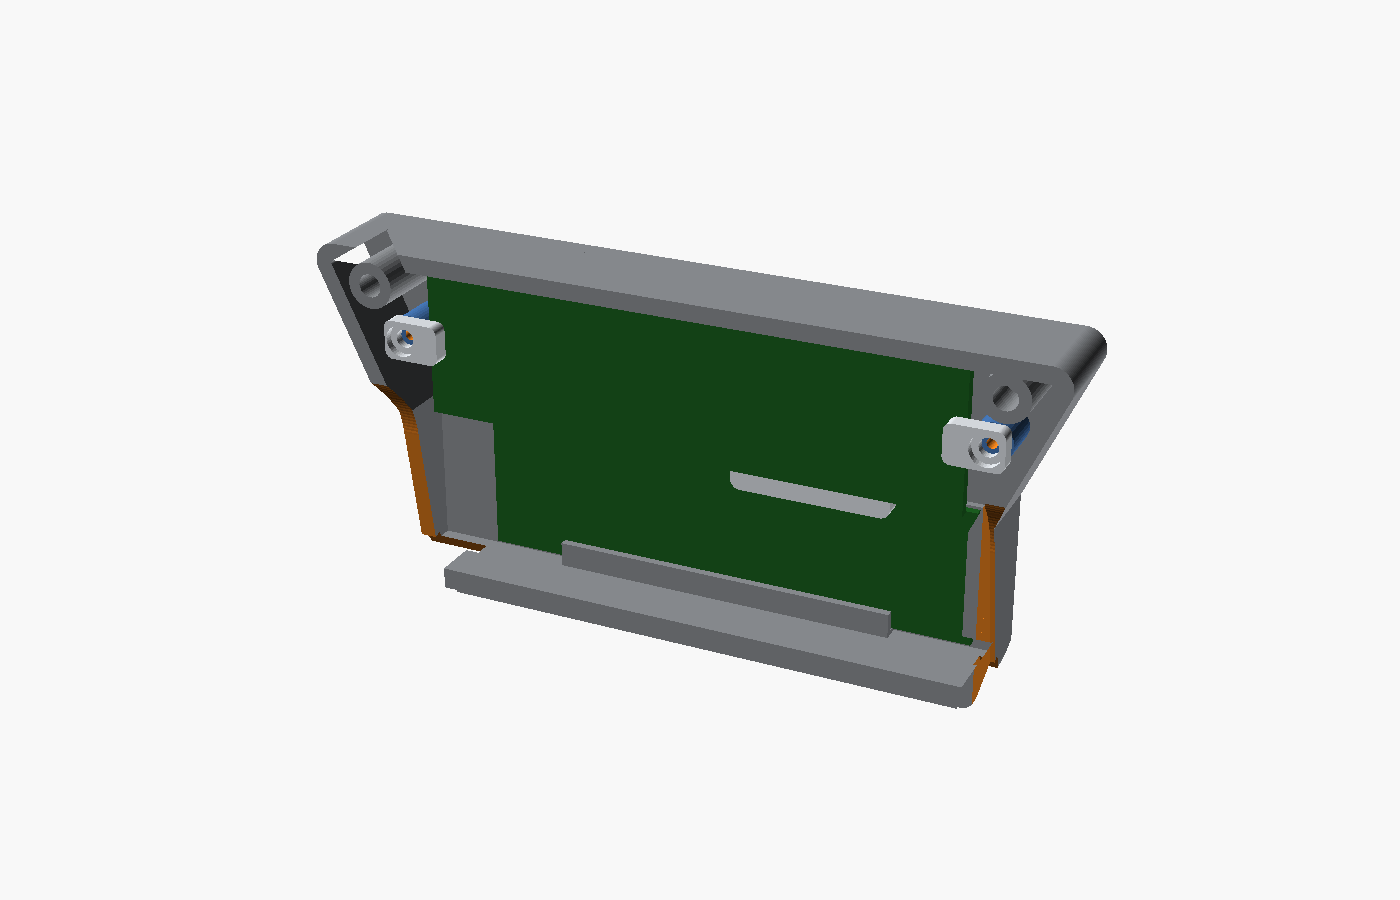
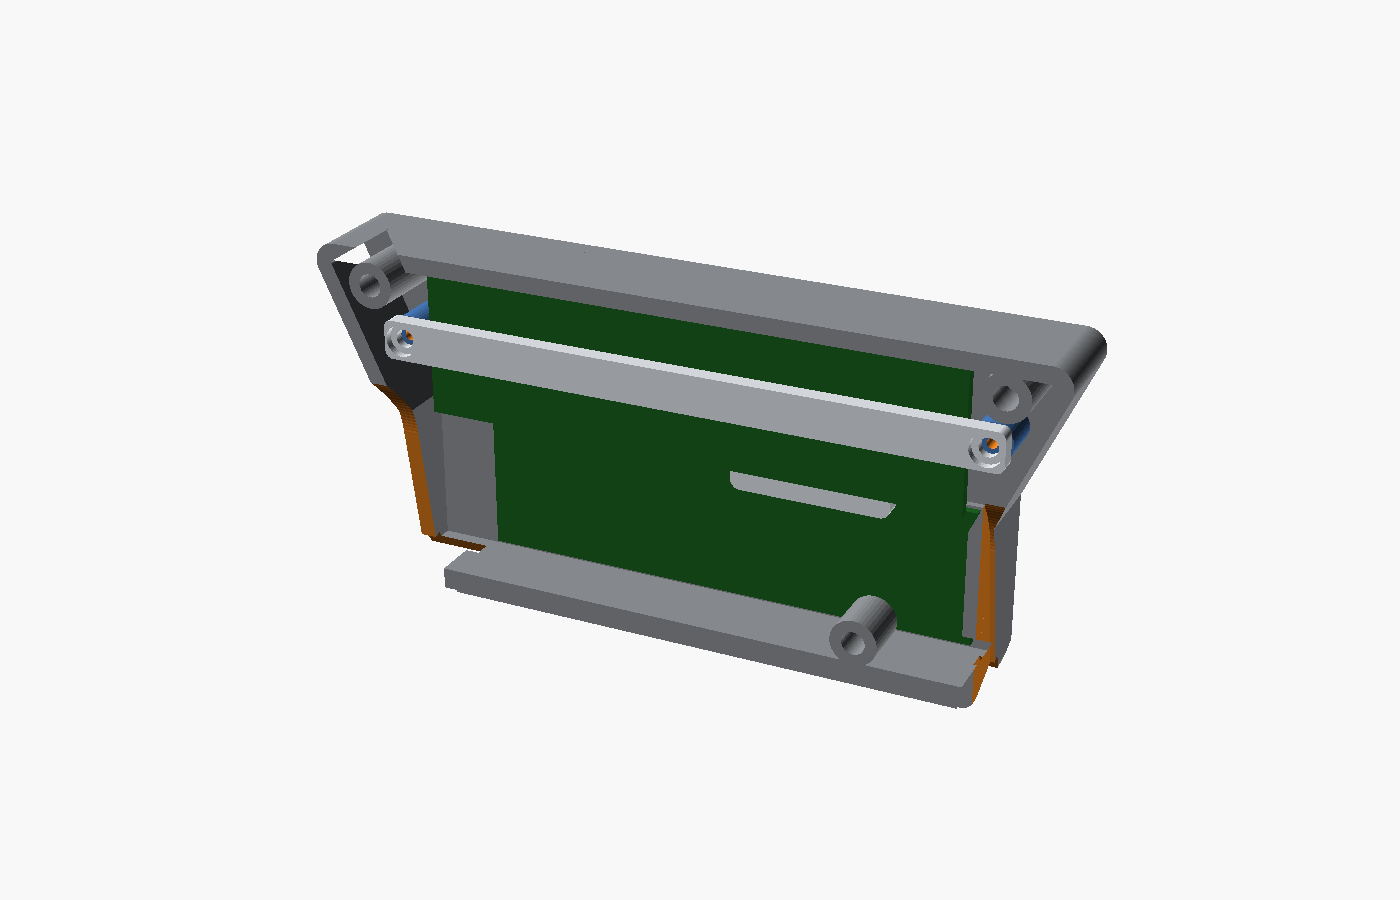
head_v6: OLED rim removed, four M2 pilots for the OLED board, pocket 0.2 larger all round

Changed region(s): [[0.3071, 0.3422, 0.6757, 0.5289], [0.3993, 0.5911, 0.645, 0.7467]]

diff --git a/hardware/cad/docs/build_photos/README.md b/hardware/cad/docs/build_photos/README.md
@@ -24,7 +24,7 @@ mic cans in their pockets. One side is held by an M2.5 x 12 bolt through the edg
 **Parts (in `out/`):** `base_head_front_v6.3mf` (print front face down, no supports), `base_head_back_v6.3mf` (print front face down, tree supports under the axle stubs and the crank bracket),
 `base_head_straps_v6.3mf` (1 long camera strap + 1 OLED half strap, flat). They replace `base_head_v4`, `base_camframe_v4`, `base_head_v5` and `base_plate_v4`; do not print those. Not printed yet.
 **Hardware:** the camera with its glass eyes, the OLED (2.08", GME25664-65), 3 x M2.5 heat-set inserts (front piece), 1 x M3 heat-set insert (crank bracket on the back piece's left arm),
-2 x **M2.5 x 10** + 1 x **M2.5 x 8** (joint, the short one at the bottom right), 2 x **M2 x 6** (camera strap, one at each end), 1 x **M2 x 5** (OLED strap), all M2 self-tapping into the printed pilot holes.
+2 x **M2.5 x 10** + 1 x **M2.5 x 8** (joint, the short one at the bottom right), 2 x **M2 x 6** (camera strap, one at each end), 4 x **M2 x 4** (OLED board) + 1 x **M2 x 5** (OLED half strap, optional extra), all M2 self-tapping into the printed pilot holes.
 **Nothing more to print for this step.**
 
 ![Head from the front](03_render_head_front.png)
@@ -34,13 +34,13 @@ mic cans in their pockets. One side is held by an M2.5 x 12 bolt through the edg
 *04: the assembled head from the rear: back piece with its two ears (bolts), pivot arms and axle stubs.*
 
 ![Open rear](06_render_head_open_rear.png)
-*06: back piece off: camera board held by a strap at each end, OLED below it, rim along its bottom edge, the two joint bosses in the top corners.*
+*06: back piece off: camera board held by a strap at each end, OLED below it (four screws), the two joint bosses in the top corners.*
 
 ![Exploded](05_render_head_exploded.png)
 *05: exploded, seen from the right: back piece, straps, camera board, OLED, front piece.*
 
 1. **Inserts.** M2.5 inserts into the three joint bosses (two top corners and one at the bottom right of the front piece, pressed in from the rear end). M3 insert into the crank bracket on the back piece's left arm.
-2. **OLED.** Glass into the pocket from behind; the board's bottom edge goes under the rim (the lip along the bottom), then the board lies flat. Put the OLED strap over its top edge, **M2 x 5**, snug only.
+2. **OLED.** Glass into the pocket from behind, the board lies flat on the wall, and four **M2 x 4** go through its corner holes into the printed pilots (snug only, the pilots are 3 deep in a 4 mm wall). The half strap (**M2 x 5**) is an optional extra over the top edge.
    There are 9.8 mm behind the board for the Dupont plugs; the wires leave through the cable slot in the back plate (50 x 9, bottom edge).
 3. **Camera.** Lens cube through the square hole from behind, glass eyes pressed into their seats from the front (spigots are behind the board's two LEDs). The long camera strap across the back of the board, one **M2 x 6** at each end.
    The USB cable leaves through the same slot.
